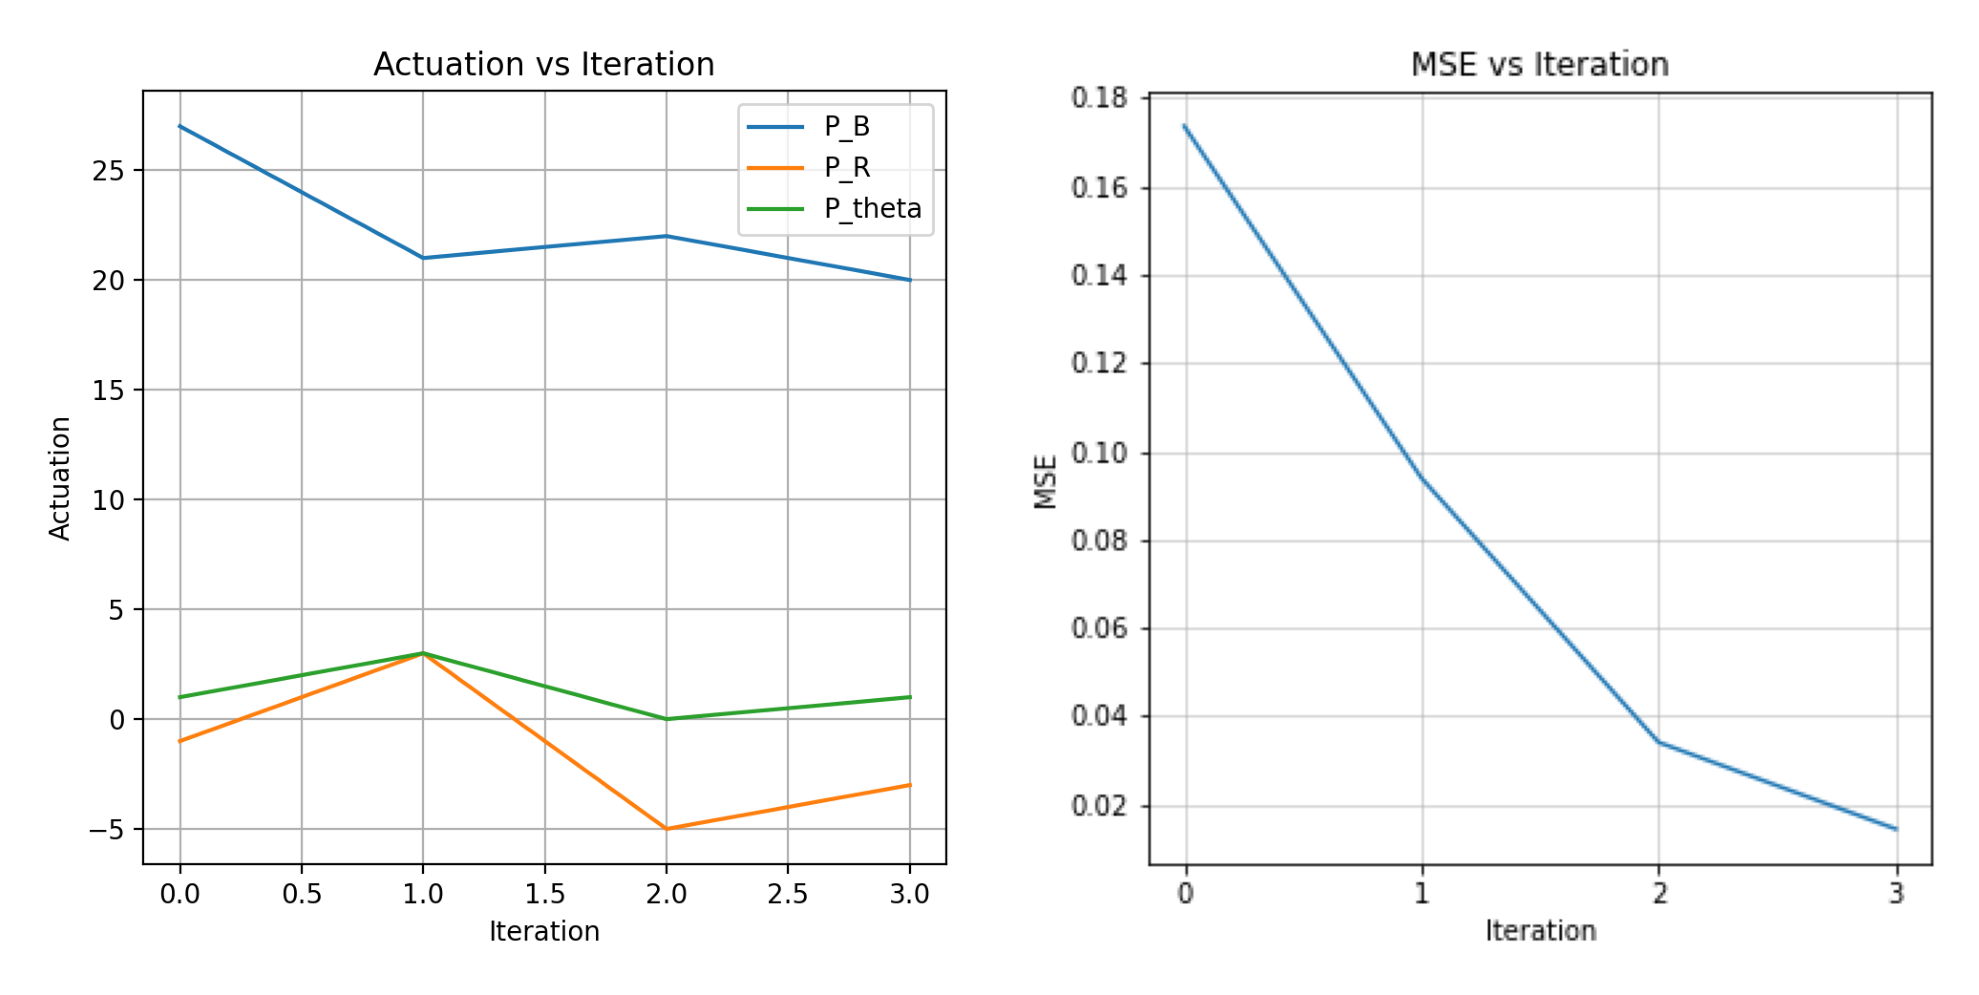
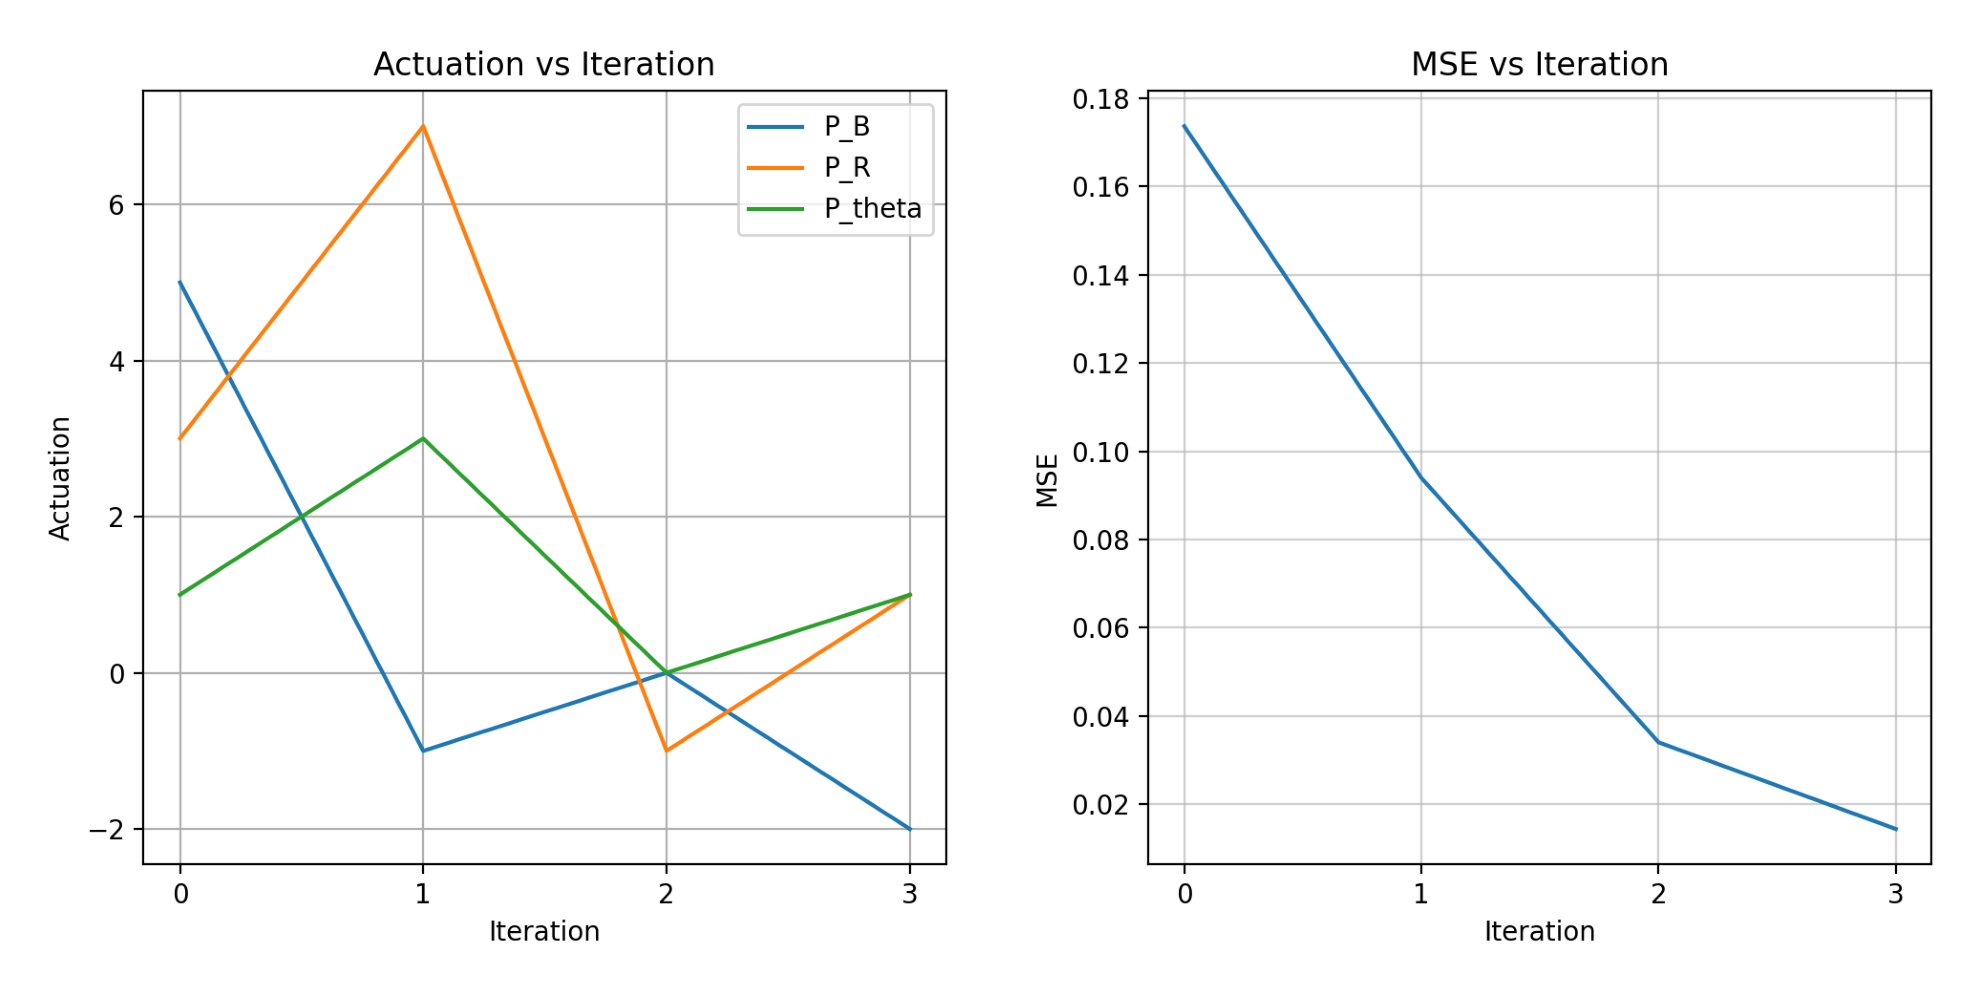
Actuation Diff Plots

diff --git a/vis.py b/vis.py
@@ -27,8 +27,8 @@ def plot_actuation(iterations, actuation_data, results_path):
         legends_use.append(legends[i])
     
     ax.grid()
-    ax.set_xticks(iterations, minor=True)
-    ax.grid(which="minor",alpha=0.3)
+    ax.set_xticks(iterations)
+    
 
     ax.set_xlabel('Iteration')
     ax.set_ylabel('Actuation')
@@ -90,6 +90,8 @@ def plot_mse_error(current_images_path, target_image_path, results_path):
     plt.savefig(os.path.join(results_path, 'mse_curve.png'), dpi=200)
         
     
+actuation_tar = np.array([[22, -4, 0]])
+
 
 '''
 path = 'test1/'
@@ -115,9 +117,9 @@ actuation_data = np.array([[21, -3, 1],
                            [22, -4, 1.],
                            [20, -5, 0]])
 
-   
-           
-'''
+
+
+'''   
 path = 'test3/'
 actuation_data = np.array([[18, -20, 4], 
                            [24, -10, -1.], 
@@ -126,6 +128,10 @@ actuation_data = np.array([[18, -20, 4],
                            [20, -3, 0.],
                            [19, 14, 1.]])
 
+
+
+repeat_len  = actuation_data.shape[0]
+actuation_diff = actuation_data - np.repeat(actuation_tar, [repeat_len], axis=0)
 
 
 results_path = os.path.join('images/', path, 'results/')
@@ -147,7 +153,7 @@ img_tar = images[0]
 num_iterations = actuation_data.shape[0]
 iterations = [x for x in range(num_iterations)]
  
-plot_actuation(iterations, actuation_data, results_path)
+plot_actuation(iterations, actuation_diff, results_path)
 
 plot_superimposition(img_fin, img_tar, results_path)
 
